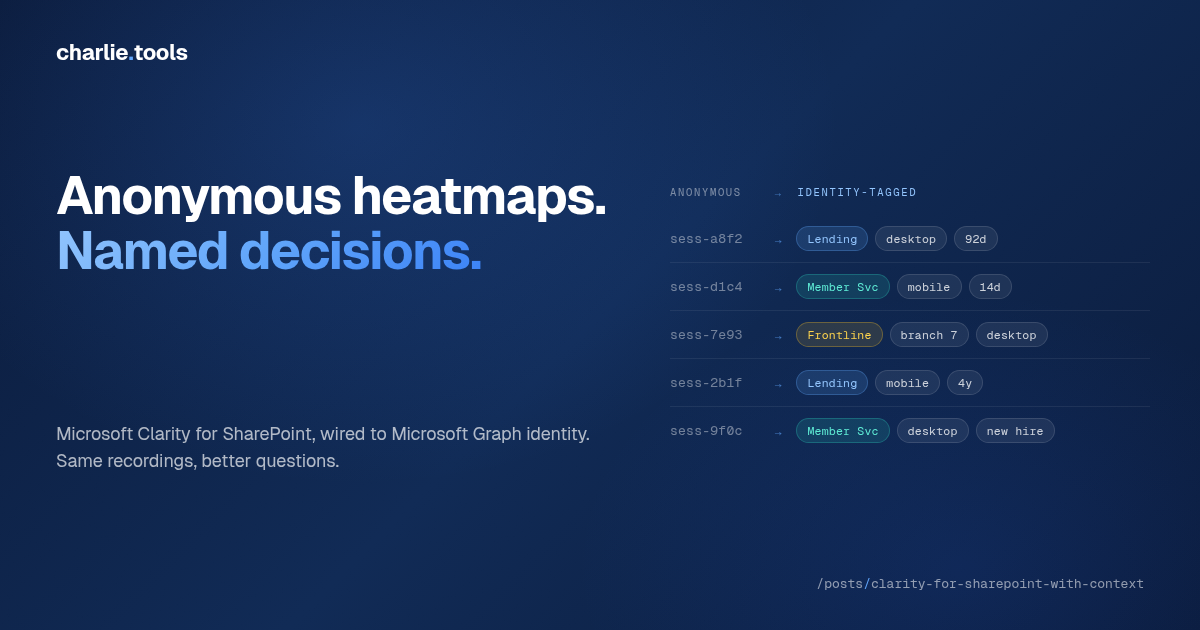
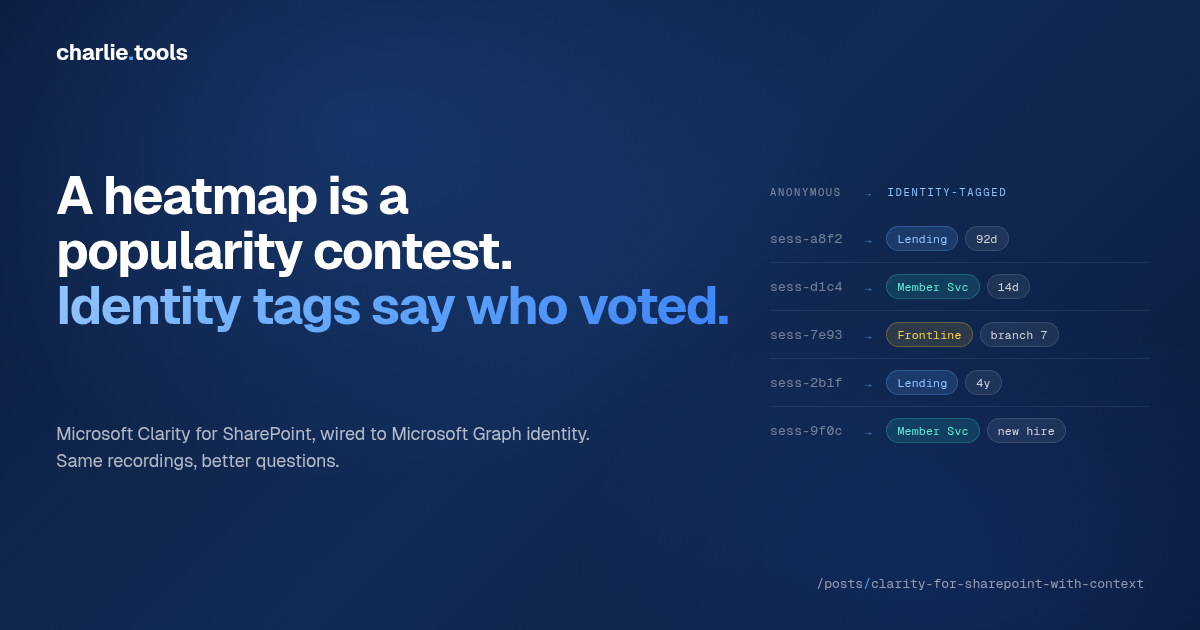
deploy 3bc009e

diff --git a/social/clarity-for-sharepoint-with-context-hero.html b/social/clarity-for-sharepoint-with-context-hero.html
@@ -80,10 +80,10 @@ color: #ffffff;
 font-family: 'Geist', sans-serif;
 font-weight: 700;
 font-size: 52px;
-letter-spacing: -0.027em;
+letter-spacing: -0.030em;
 line-height: 1.06;
 z-index: 3;
-width: 590px;
+width: 700px;
 }
 .headline .em {
 background: linear-gradient(135deg, #93c5fd 0%, #60a5fa 50%, #3b82f6 100%);
@@ -208,7 +208,7 @@ font-style: italic;
 position: absolute;
 top: 78px;
 right: 50px;
-width: 480px;
+width: 380px;
 height: 480px;
 display: flex;
 flex-direction: column;
@@ -229,7 +229,7 @@ flex: 0 0 auto;
 }
 .sessions-h-label--anon {
 color: rgba(255, 255, 255, 0.45);
-width: 90px;
+width: 80px;
 }
 .sessions-h-label--tagged {
 color: #93c5fd;
@@ -254,7 +254,7 @@ font-family: 'Geist Mono', monospace;
 font-size: 13px;
 color: rgba(255, 255, 255, 0.42);
 letter-spacing: 0.02em;
-flex: 0 0 90px;
+flex: 0 0 80px;
 }
 .session-arrow {
 color: rgba(96, 165, 250, 0.65);
@@ -306,8 +306,9 @@ border: 1px solid rgba(255, 255, 255, 0.12);
   <div class="wordmark">charlie<span class="dot">.</span>tools</div>
 
   <div class="headline">
-    Anonymous heatmaps.<br>
-    <span class="em">Named decisions.</span>
+    A heatmap is a<br>
+    popularity contest.<br>
+    <span class="em">Identity tags say who voted.</span>
   </div>
 
   <div class="subtitle">
@@ -329,7 +330,6 @@ border: 1px solid rgba(255, 255, 255, 0.12);
       <span class="session-arrow">&rarr;</span>
       <span class="session-tags">
         <span class="session-tag session-tag--lending">Lending</span>
-        <span class="session-tag session-tag--neutral">desktop</span>
         <span class="session-tag session-tag--neutral">92d</span>
       </span>
     </div>
@@ -339,7 +339,6 @@ border: 1px solid rgba(255, 255, 255, 0.12);
       <span class="session-arrow">&rarr;</span>
       <span class="session-tags">
         <span class="session-tag session-tag--member">Member Svc</span>
-        <span class="session-tag session-tag--neutral">mobile</span>
         <span class="session-tag session-tag--neutral">14d</span>
       </span>
     </div>
@@ -350,7 +349,6 @@ border: 1px solid rgba(255, 255, 255, 0.12);
       <span class="session-tags">
         <span class="session-tag session-tag--frontline">Frontline</span>
         <span class="session-tag session-tag--neutral">branch 7</span>
-        <span class="session-tag session-tag--neutral">desktop</span>
       </span>
     </div>
 
@@ -359,7 +357,6 @@ border: 1px solid rgba(255, 255, 255, 0.12);
       <span class="session-arrow">&rarr;</span>
       <span class="session-tags">
         <span class="session-tag session-tag--lending">Lending</span>
-        <span class="session-tag session-tag--neutral">mobile</span>
         <span class="session-tag session-tag--neutral">4y</span>
       </span>
     </div>
@@ -369,7 +366,6 @@ border: 1px solid rgba(255, 255, 255, 0.12);
       <span class="session-arrow">&rarr;</span>
       <span class="session-tags">
         <span class="session-tag session-tag--member">Member Svc</span>
-        <span class="session-tag session-tag--neutral">desktop</span>
         <span class="session-tag session-tag--neutral">new hire</span>
       </span>
     </div>
